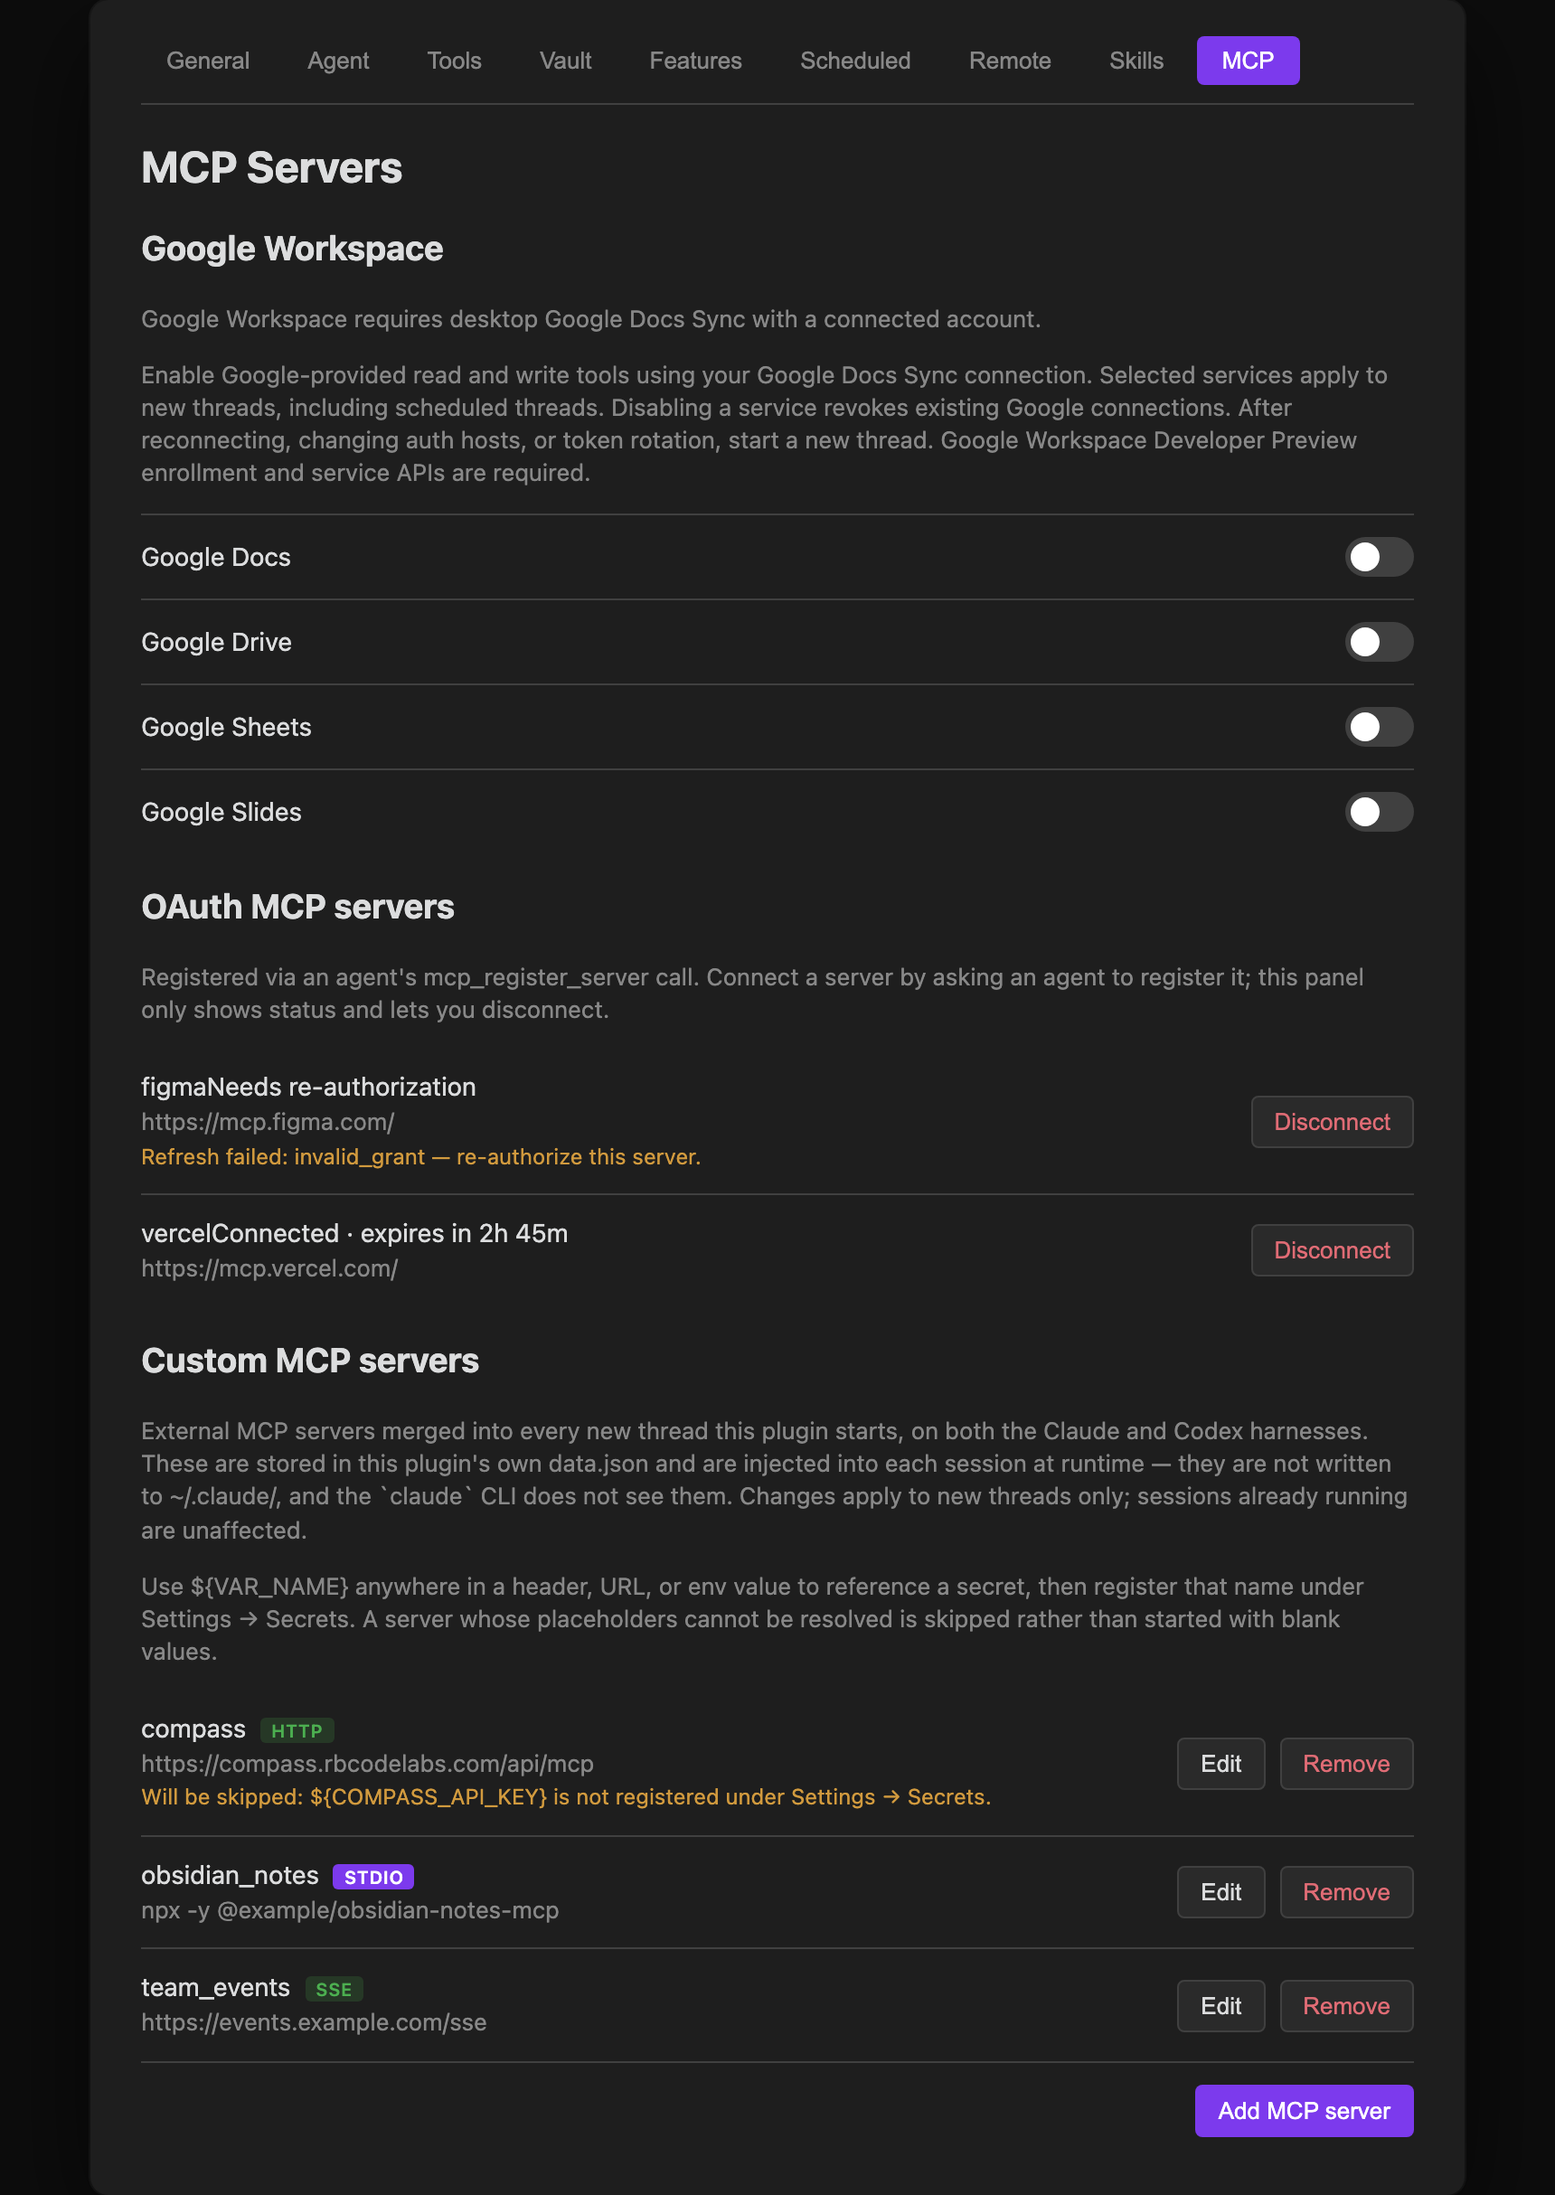
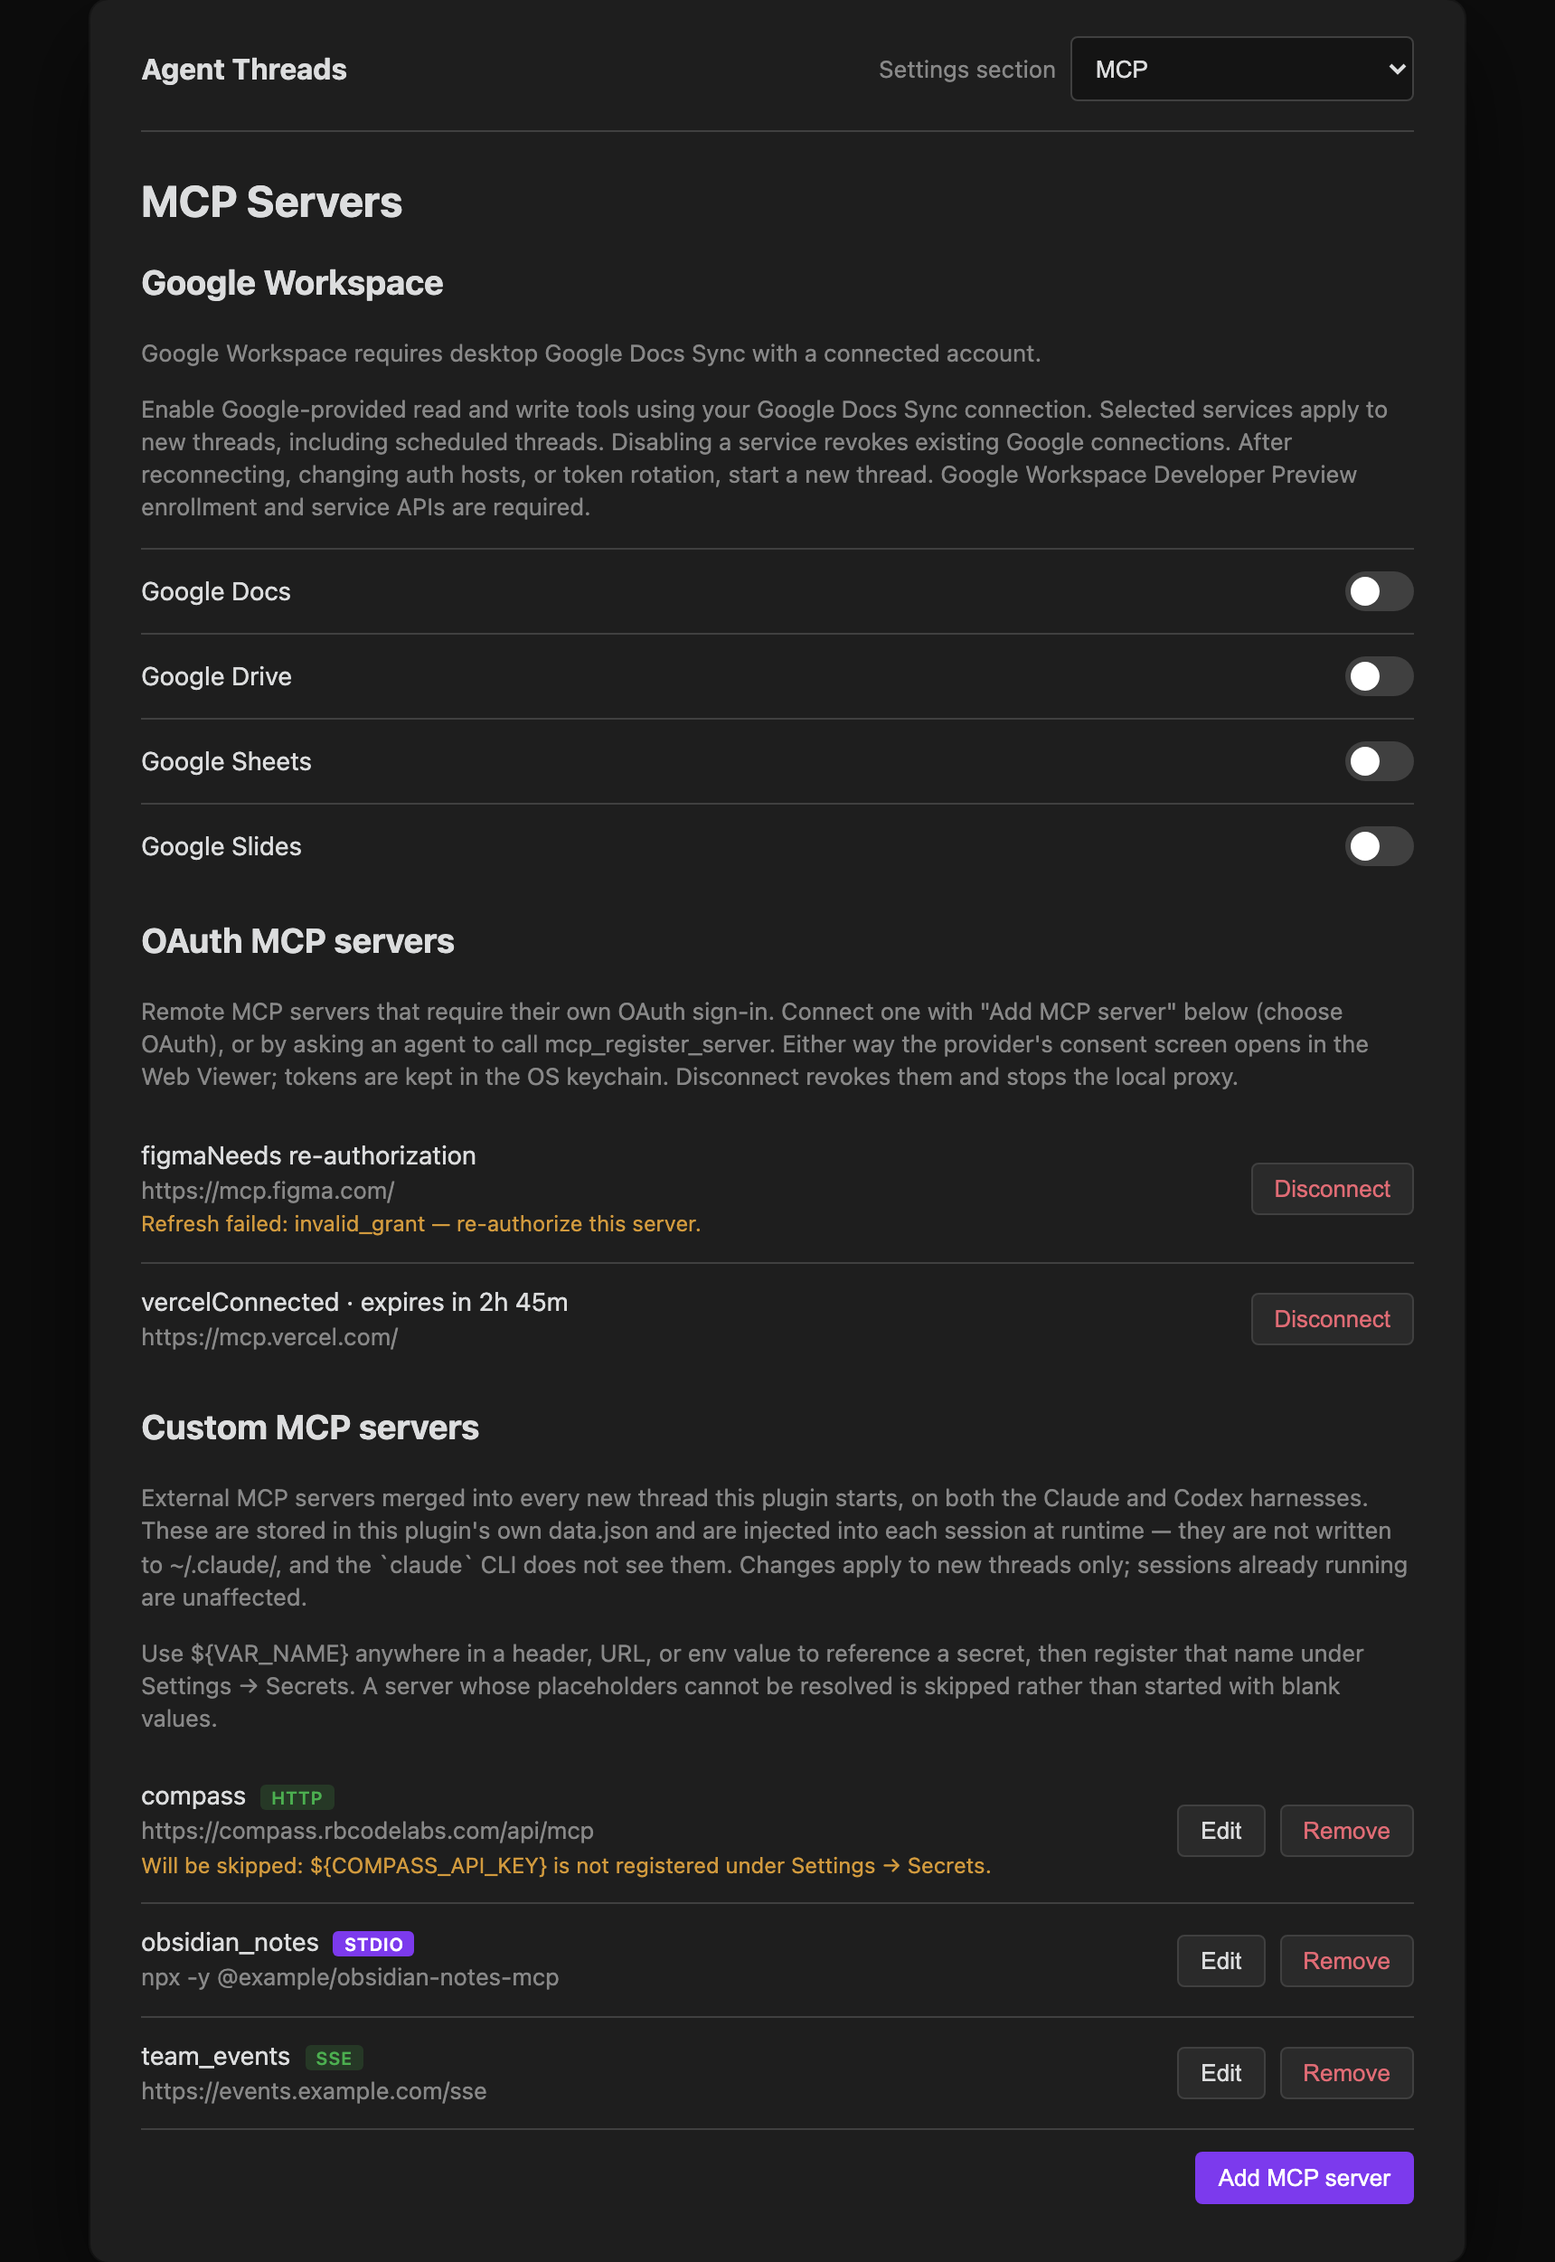
docs: explain compact settings and workspace managers (#105)
* docs: explain compact settings and project secret managers

* docs: match manager creation button labels

* docs: sync compact settings screenshots

diff --git a/src/content/docs/integrations/git-and-vault.md b/src/content/docs/integrations/git-and-vault.md
@@ -59,7 +59,7 @@ Edits made directly to vault files are unaffected — they don't match any bridg
 
 Projects group threads, choose their initial working directory, inject shared context, and may own a Project Orchestrator, so Claude always knows what it's working on.
 
-**Creating a project:** Go to Settings → Vault → Projects, enter a project name and vault folder path, and click **Add**. By default, the working directory is derived as `<vault root>/<vault folder>`. Use the optional filesystem cwd override when the work belongs in a repo or directory outside the vault. Settings always shows the resolved effective cwd, and clearing the override returns the Project to its vault-derived path. You can also add a project context prompt — a few sentences describing the project's goals, conventions, and key files that Claude should always keep in mind.
+**Creating a project:** Open Settings → Agent Threads and choose **Projects** in the **Settings section** selector. Click **New project**, enter a project name and vault folder path, then **Create project**. By default, the working directory is derived as `<vault root>/<vault folder>`. Use the optional filesystem cwd override when the work belongs in a repo or directory outside the vault. Settings always shows the resolved effective cwd, and clearing the override returns the Project to its vault-derived path. You can also add a project context prompt — a few sentences describing the project's goals, conventions, and key files that Claude should always keep in mind.
 
 **Opening a thread in a project:** The Agents List and Agent Board dispatch panels have an accessible **Project** selector. Choose a Project before dispatching, or use **No Project** in the Agents List (**Unassigned** on the Agent Board) to use the global default working directory. The new thread starts in the Project's effective cwd, and the Project context is prepended to every message you send.
 
@@ -67,9 +67,9 @@ Projects group threads, choose their initial working directory, inject shared co
 
 Agents use `threads_set_project`, which changes only the Project association by default; it does not silently relocate an existing session. Pass `alignCwd: true` to align an assigned thread through the safe next-turn cwd reset path. Detaching a thread from a Project never changes its current cwd. A thread with no Project may place **itself** into any Project — nothing else can, so without that a thread which just created a Project could never join it. It is an escape hatch out of statelessness, not a scope hop: it does not let a thread move anyone else, and a Project thread still cannot hop to a different Project.
 
-**Managing projects:** Edit the name, cwd override, or context prompt at any time in Settings → Vault → Projects. Agents can make the same durable edits with `threads_update_project` (legacy alias: `obsidian_update_project`). It requires the target `projectId` and at least one changed field: an optional trimmed, nonblank `name`; a nullable `description`; or a nullable `cwdOverride`, which must be absolute when set. Passing `null` clears either nullable field. The tool returns the complete updated Project snapshot with its resolved `effectiveCwd`. Project members and Project Orchestrators may update their own Project; the Portfolio Orchestrator must provide a matching `elevatedProjectId`, and unassigned or cross-Project callers are denied.
+**Managing projects:** Search or select a Project in the Projects settings section, edit its details, then choose **Save changes** or **Cancel**. Agents can make the same durable edits with `threads_update_project` (legacy alias: `obsidian_update_project`). It requires the target `projectId` and at least one changed field: an optional trimmed, nonblank `name`; a nullable `description`; or a nullable `cwdOverride`, which must be absolute when set. Passing `null` clears either nullable field. The tool returns the complete updated Project snapshot with its resolved `effectiveCwd`. Project members and Project Orchestrators may update their own Project; the Portfolio Orchestrator must provide a matching `elevatedProjectId`, and unassigned or cross-Project callers are denied.
 
-Updating a Project does not relocate existing threads or restart their live sessions. New Project threads and dynamic Project schedules use the updated effective cwd, and newly initialized sessions receive updated Project context. This configuration tool does not automatically inject vault-relative/repo-relative path disambiguation; that remains a separate product follow-up. Create or open a Project Orchestrator from the Settings row; the first completed Project thread also creates one automatically without changing focus. Intentionally archiving the Project Orchestrator disables automatic recreation and completion wakeups, including after synced `data.json` is loaded on restart. Choosing **Create/Open** again deliberately re-enables it. Deleting a Project detaches its threads, clears pending proposed replies, removes the Project heartbeat, and pins its schedules to the former effective cwd.
+Updating a Project does not relocate existing threads or restart their live sessions. New Project threads and dynamic Project schedules use the updated effective cwd, and newly initialized sessions receive updated Project context. This configuration tool does not automatically inject vault-relative/repo-relative path disambiguation; that remains a separate product follow-up. Create or open a Project Orchestrator from the detail pane; the first completed Project thread also creates one automatically without changing focus. Intentionally archiving the Project Orchestrator disables automatic recreation and completion wakeups, including after synced `data.json` is loaded on restart. Choosing **Create/Open** again deliberately re-enables it. Confirming Project deletion detaches its threads, clears pending proposed replies, removes the Project heartbeat, and pins its schedules to the former effective cwd.
 
 > **Projects focus context; they are not security boundaries.** Thread-coordination tools are operationally Project-scoped, but vault tools, MCP servers, skills, secrets, and filesystem permissions are not. Use harness permissions, operating-system permissions, and tool/server configuration for access control.
 

diff --git a/src/content/docs/reference/settings.md b/src/content/docs/reference/settings.md
@@ -1,11 +1,13 @@
 ---
 title: Settings Reference
-description: Every setting in the plugin, organized by its actual tab — General, Agent, Tools, Vault, Features, Scheduled, Remote, Skills, and MCP.
+description: Every settings section, including the Projects and Secrets managers, with desktop navigation and mobile pairing controls.
 category: reference
 order: 1
 ---
 
-Settings are organized into nine tabs. On desktop, all nine are shown; on mobile, a reduced settings screen shows only pairing, plugin reload, and relay URL — see [Mobile settings](#mobile-settings) at the bottom of this page.
+Open **Settings → Agent Threads** in Geode or Obsidian, then use the **Settings section** selector at the top. Its eleven desktop sections are grouped under Preferences, Workspace, Extensions, and Connectivity. The host keeps its own settings navigation; Agent Threads uses a compact header instead of adding another sidebar.
+
+Projects and Secrets have searchable lists and a detail editor, arranged side by side when space allows and stacked in narrow settings panes. On mobile, a reduced settings screen shows only pairing, plugin reload, and relay URL — see [Mobile settings](#mobile-settings).
 
 ## General
 
@@ -43,7 +45,8 @@ With **Conversation first**, Geode hosts that support durable companions reuse t
 | Setting | Description |
 |---|---|
 | Extra environment variables | `KEY=VALUE` pairs, one per line, merged into the Claude process environment (e.g. `AWS_PROFILE`, `AWS_REGION`) |
-| Secret environment variables | Keychain-backed env vars — add, change, or remove a named secret; values are stored in the OS keychain and never appear in `data.json` |
+
+Manage keychain-backed environment variables in the dedicated [Secrets](#secrets) section.
 
 > **macOS users:** the first time Claude accesses a folder like `~/Documents`, macOS shows a privacy dialog. Click Allow — it only appears once per folder.
 
@@ -87,15 +90,24 @@ Pending payloads are limited to 4 MiB and 128 entries per session. Reaching eith
 
 This reduces redundant event traffic in new logs. It does not rewrite existing logs or impose a maximum file size: completed results and long conversation histories still consume space. Pending compacted events are held in memory until a flush, so an abrupt host crash can lose that pending detail.
 
-### Projects
+## Projects
 
-Add a new Project with a name and vault folder. Its working directory defaults to `<vault root>/<vault folder>`; set a filesystem cwd override for work outside the vault. Each Project shows its resolved effective cwd, and clearing the override returns it to the vault-derived path.
+Choose **Projects** in the section selector, then **New project**. Enter a name and vault folder and choose **Create project**. Its working directory defaults to `<vault root>/<vault folder>`; set a filesystem cwd override for work outside the vault. Each Project shows its resolved effective cwd, and clearing the override returns it to the vault-derived path.
 
-Edit existing [Projects](/docs/integrations/git-and-vault/#projects) inline — rename, create/open its orchestrator, delete with an impact preview, change the cwd override, or edit the context prompt. Intentionally archiving a Project Orchestrator disables its heartbeat, completion wakeups, and automatic recreation; the disabled state survives reloads from synced `data.json`. Deliberately choosing **Create/Open** re-enables it. Deletion detaches threads and preserves scheduled work at the former effective cwd.
+Search or select an existing [Project](/docs/integrations/git-and-vault/#projects) to edit its name, vault folder, cwd override, or context prompt. **Save changes** applies the draft; **Cancel** discards it. The detail pane also lets you create/open its orchestrator or delete the Project after confirming the impact. Intentionally archiving a Project Orchestrator disables its heartbeat, completion wakeups, and automatic recreation; the disabled state survives reloads from synced `data.json`. Deliberately choosing **Create/Open** re-enables it. Deletion detaches threads and preserves scheduled work at the former effective cwd.
 
 > Projects focus initial context; they do not restrict vault tools, MCP servers, skills, secrets, filesystem permissions, or thread-coordination tools.
 
+## Secrets
+
+Choose **Secrets** in the section selector to search, add, replace, or remove keychain-backed environment variables. Values are stored in OS-backed secret storage and never appear in `data.json`.
+
+Choose **Add secret**, enter its variable name and value, and set its project access. **Global** makes it available to every Project and Project-less thread. **Selected projects** limits resolution to the checked Projects. Confirm with **Add secret** for a new entry or **Save changes** for an existing one to apply the value and access together. **Cancel** discards the draft.
+
+For an existing secret, leaving the replacement value blank preserves the stored value. Removing a secret requires confirmation. Project access controls secret resolution; MCP server and skill registration remain global.
+
 ## Features
+
 
 ### Summarization
 
@@ -173,7 +185,7 @@ for connection, OAuth scopes, and preview-enrollment prerequisites.
 
 ## Mobile settings
 
-Obsidian Mobile shows a reduced settings screen instead of the eight tabs above:
+Obsidian Mobile shows a reduced settings screen instead of the desktop sections above:
 
 | Setting | Description |
 |---|---|

diff --git a/src/content/docs/integrations/mcp-servers.md b/src/content/docs/integrations/mcp-servers.md
@@ -251,7 +251,7 @@ Environment-variable values and HTTP header values support `${VAR_NAME}` placeho
 - A row in the **Settings → MCP** list shows *"Will be skipped: `${VAR_NAME}` is not registered under Settings → Secrets."*
 - The first time a thread hits this during a session, a one-time notice banner reports it (deduplicated per warning message, so it won't repeat every turn).
 
-Earlier versions of the plugin expanded an unresolved placeholder to an empty string and injected it anyway — which meant a server could silently authenticate with a blank token and fail in confusing ways. Register the missing variable or secret under **Settings → Claude → Extra environment variables / Secret environment variables** to clear the warning and have the server load normally.
+Earlier versions of the plugin expanded an unresolved placeholder to an empty string and injected it anyway — which meant a server could silently authenticate with a blank token and fail in confusing ways. Open **Settings → Agent Threads**, choose **Secrets** in the section selector, and save the missing secret to clear the warning. Nonsecret variables can be added under **Agent → Extra environment variables**.
 
 ## Related
 
